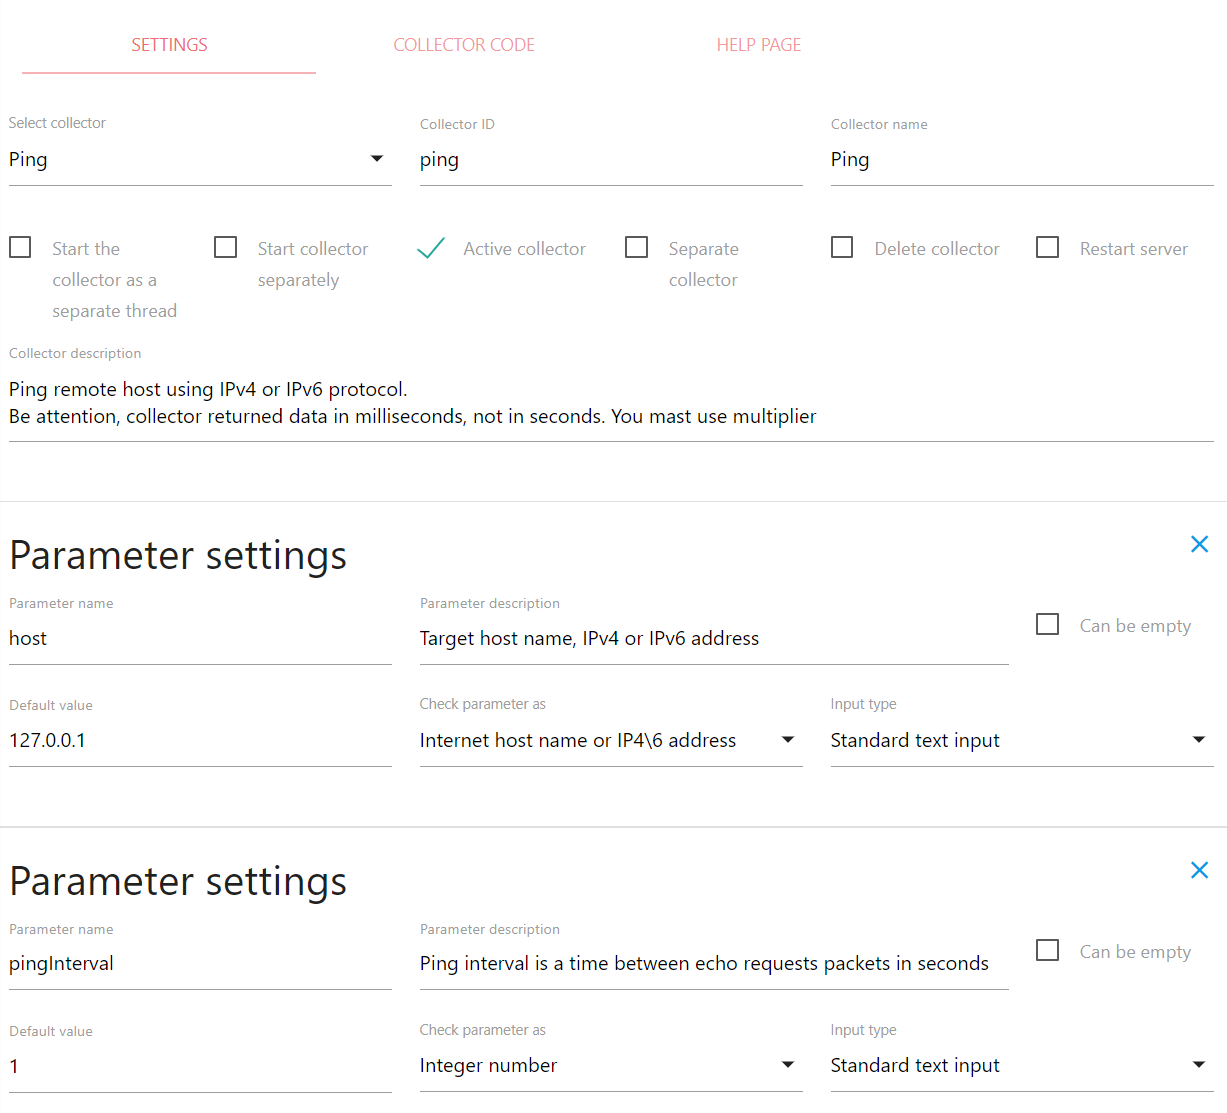
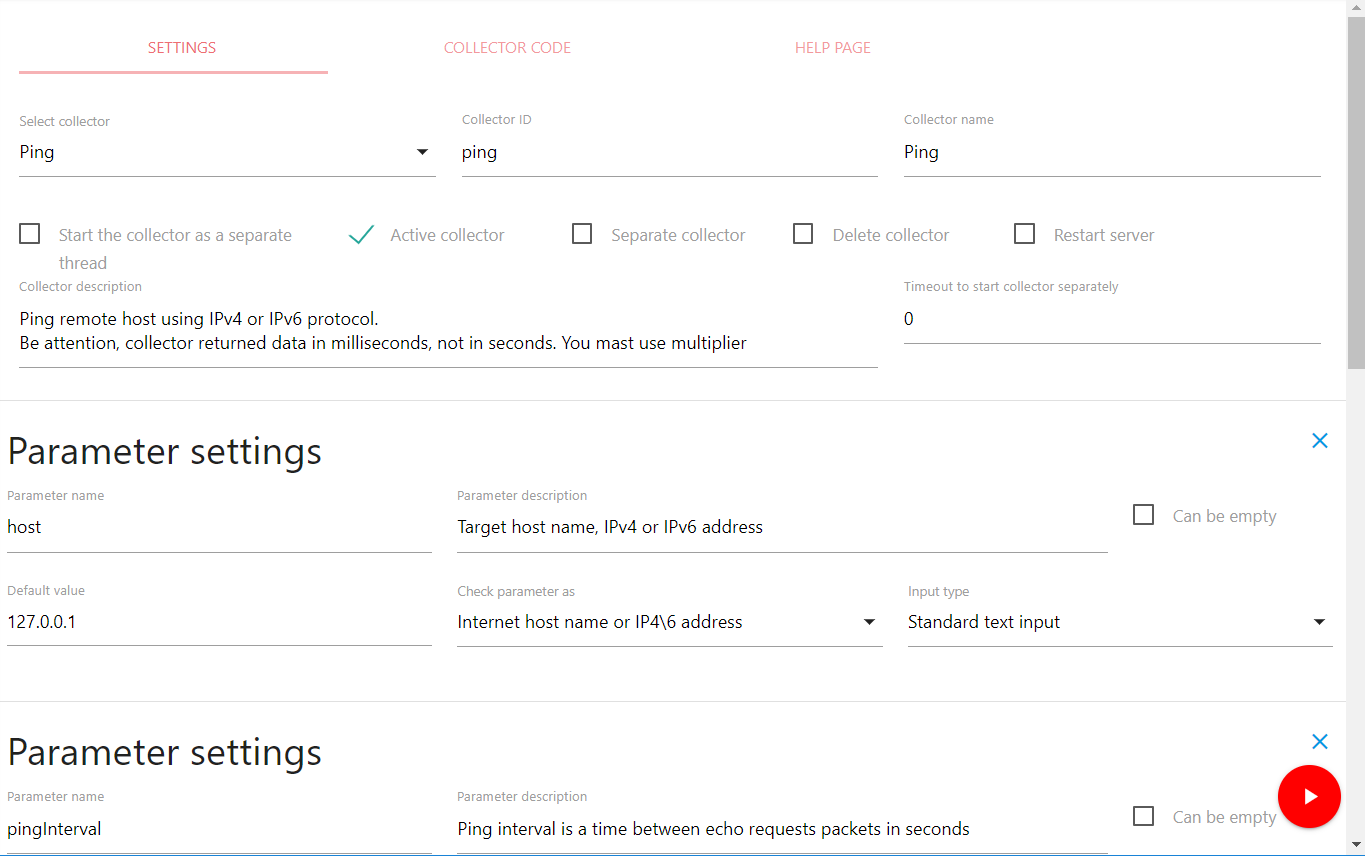
* server bug fixes * collector editor: add timeout for runCollectorSeparately * event editor: bug fixes * interface editor^ new action * frontend interface - bug fixes * update help

diff --git a/server/counterProcessorServer.js b/server/counterProcessorServer.js
@@ -42,9 +42,9 @@ var startMemUsageTime = 0,
     stopServerInProgress = 0,
     childrenThreads,
     activeCollectors = new Set(),
-    runCollectorSeparately = new Set(),
-    /** What OCIDs is being processed now: Map[OCID: isActiveCollector (true|false)]
-     * @type {Map<Number, Boolean>}
+    runCollectorSeparately = new Map(),
+    /** What OCIDs is being processed now: Map[OCID: { isActiveCollector (true|false), timestamp: <startProcessingTime>}]
+     * @type {Map<Number, {Boolean, Number}>}
      */
     processedOCIDs = new Map(),
     updateEventsStatus = new Map(),
@@ -93,7 +93,19 @@ function initBuildInServer(collectorsNamesStr, _serverID, callback) {
             for (var name in collectorsObj) {
                 if (collectorsObj[name].active) activeCollectors.add(name);
                 //else if (collectorsObj[name].separate) separateCollectors.set(name);
-                else if (collectorsObj[name].runCollectorSeparately) runCollectorSeparately.add(name);
+                /*
+                collectorsObj[name].runCollectorSeparately may contain the maximum time (ms) during which data collection
+                can be performed. If the time is exceeded, it is considered that the data collection is completed,
+                but the server has not received a message about this
+                 */
+                else if (collectorsObj[name].runCollectorSeparately) {
+                    var maxTimeToProcessCounter = parseInt(collectorsObj[name].runCollectorSeparately);
+                    if(isNaN(maxTimeToProcessCounter)) {
+                        maxTimeToProcessCounter = parseInt(confServer.maxTimeToProcessCounter)
+                    }
+                    if(isNaN(maxTimeToProcessCounter)) maxTimeToProcessCounter = 30000;
+                    runCollectorSeparately.set(name, maxTimeToProcessCounter);
+                }
             }
 
             runChildren(function (err) {
@@ -204,7 +216,10 @@ function runChildren(callback) {
 // message = {err, result, parameters, collectorName}
 function processCounterResult (message) {
     var OCID = Number(message.parameters.$id);
-    if(!processedOCIDs.has(OCID)) processedOCIDs.set(OCID, true); // active collector
+    if(!processedOCIDs.has(OCID)) processedOCIDs.set(OCID, {
+        isActive: true,
+        timestamp: Date.now(),
+    }); // active collector
     childrenThreads.send(message);
 }
 
@@ -457,20 +472,22 @@ function processChildMessage(message) {
     Message without counter result:
     {
         parentOCID: param.parentOCID,
-        completeExecutionOCID: param.OCID,
-        updateEventState: param.updateEventState, // can be undefined
+        OCID: param.OCID,
+        updateEventState: param.updateEventState,
     }
      */
     if(message.updateEventState !== undefined) {
         let updateEventKey = message.parentOCID + '-' + message.OCID;
         updateEventsStatus.set(updateEventKey, message.updateEventState);
             //if(updateEventKey === '155273-155407' || updateEventKey === '155273-155287') log.warn('!!updateEvent: ', updateEventKey, ': ', message.updateEventState)
+        return;
     }
 
     if(message.OCID) {
         // delete processedOCIDs when finished getting data from not active collector
-        // (processedOCIDs.set(OCID, isActive);  =>   processedOCIDs.get(OCID) === false)
-        if(processedOCIDs.get(Number(message.OCID)) === false) processedOCIDs.delete(Number(message.OCID));
+        if(processedOCIDs.has(message.OCID) && processedOCIDs.get(message.OCID).isActive === false) {
+            processedOCIDs.delete(Number(message.OCID));
+        }
         ++processedCounters;
     }
 
@@ -537,22 +554,27 @@ function getCountersValues(counters, parentVariables, forceToGetValueAgain, cfg)
         var OCID = counter.OCID;
         if(processedOCIDs.has(OCID)) {
             // if active collector
-            if (processedOCIDs.get(OCID)) {
+            var processedOCID = processedOCIDs.get(OCID);
+            if (processedOCID.isActive) {
                 if (forceToGetValueAgain) {
                     counter.removeCounter = true;
                     activeCounters.push(getCounterAndObjectName(OCID));
                 } else {
                     log.info('Counter ', getCounterAndObjectName(OCID),
-                        ' is processed to receive data by active collector "', counter.collector,
-                        '". Skipping add same counter');
+                        ' is processed to receive data by active collector ', counter.collector,
+                        ' from ', (new Date(processedOCID.timestamp)).toLocaleString(),'. Skipping add same counter');
                     return;
                 }
             }
             if (runCollectorSeparately.has(counter.collector)) {
-                log.info('Skipping getting a value for the ', getCounterAndObjectName(OCID),
-                    ' another counter is running and the "runCollectorSeparately" option is set for the collector ',
-                    counter.collector);
-                return;
+                var processingTime = Date.now() - processedOCID.timestamp;
+                if(processingTime < runCollectorSeparately.get(counter.collector)) {
+                    log.info('Skipping getting a value for the ', getCounterAndObjectName(OCID),
+                        '. Another counter is processed ', processingTime, 'ms and max processing time set to ',
+                        runCollectorSeparately.get(counter.collector),
+                        'ms by the "runCollectorSeparately" option for the collector ', counter.collector);
+                    return;
+                }
             }
         }
 
@@ -577,7 +599,10 @@ function getCounterValue(counter, parentVariables) {
     var OCID = counter.OCID;
     var isActive = activeCollectors.has(counter.collector);
 
-    processedOCIDs.set(OCID, isActive);
+    processedOCIDs.set(OCID, {
+        isActive: isActive,
+        timestamp: Date.now(),
+    });
 
     var updateEventKey = counter.parentOCID + '-' + OCID;
     counter.parentVariables = parentVariables;

diff --git a/server/child/getCountersValue.js b/server/child/getCountersValue.js
@@ -164,7 +164,6 @@ function sendCompleteExecutionResult(param) {
     childThread.send({
         parentOCID: param.parentOCID,
         OCID: param.OCID,
-        updateEventState: param.updateEventState,
     });
 }
 
@@ -277,17 +276,15 @@ function getVariablesAndCheckUpdateEvents(message) {
                 variablesDebugInfo.UPDATE_EVENT_STATE && variablesDebugInfo.UPDATE_EVENT_STATE.important);
         }
 
-        param.updateEventState = variables.UPDATE_EVENT_STATE;
         //profiling.stop('1. get variables values', message);
         //profiling.start('2. prepare to get counter value', message);
 
         // send UPDATE_EVENT_STATE anyway if previous updateEventState is not equal to new updateEventState,
         // because after the child may have nothing to send to the server
-        /*
+        //was if (param.parentOCID && param.updateEventExpression && variables.UPDATE_EVENT_STATE !== undefined) {
         if (param.parentOCID && param.updateEventExpression &&
             updateEventState !== variables.UPDATE_EVENT_STATE &&
             variables.UPDATE_EVENT_STATE !== undefined) {
-        //if (param.parentOCID && param.updateEventExpression && variables.UPDATE_EVENT_STATE !== undefined) {
             childThread.send({
                 parentOCID: param.parentOCID,
                 OCID: param.OCID,
@@ -295,7 +292,7 @@ function getVariablesAndCheckUpdateEvents(message) {
             });
             //if(counterID === 211 || counterID === 257) log.warn(param.counterName, ' send: updateEventState: ', updateEventState ,'=>', variables.UPDATE_EVENT_STATE, ': ', noNeedToCalculateCounter, ': ', param.parentOCID, '-', param.OCID, ': ', param.updateEventExpression);
         }
-        */
+
         //if(counterID === 211 || counterID === 257) log.warn(param.counterName, ': updateEventState: ', updateEventState ,'=>', variables.UPDATE_EVENT_STATE, ': ', noNeedToCalculateCounter, ': ', param.parentOCID, '-', param.OCID, ': ', param.updateEventExpression);
         if (err) {
             log.options(err.message, {
@@ -411,7 +408,6 @@ function processCollectorResult(err, result, param, collectorName) {
                 objectName: param.$variables.OBJECT_NAME,
                 counterID: param.$counterID,
                 objectID: param.$objectID,
-                updateEventState: param.updateEventState,
             }
         } catch (err) {
             log.error('Can\'t init param: ' + err.message + '; ' + JSON.stringify(param))
@@ -545,7 +541,6 @@ if(param.OCID === 155273) log.warn(param.counterName, ' recalculate: updateEvent
         variables: param.collectorParameters.$variables,
         dependedCounters: dependedCounters,
         value: preparedResult.value,
-        updateEventState: param.updateEventState,
     };
 
     //profiling.stop('3. get depended counters', param);

diff --git a/actions/collector_editor/server.js b/actions/collector_editor/server.js
@@ -9,6 +9,8 @@ var log = require('../../lib/log')(module);
 var collectors = require('../../lib/collectors');
 var help = require('../../lib/help');
 var server = require('../../server/counterProcessor');
+const Conf = require("../../lib/conf");
+const confServer = new Conf('config/server.json');
 
 module.exports = function(args, callback) {
     log.debug('Starting action server "', args.actionName, '" with parameters', args);
@@ -36,8 +38,17 @@ module.exports = function(args, callback) {
     collector.description = args.description;
     collector.active = args.activeCollector;
     collector.separate = args.activeCollector ? '' : args.separateCollector;
-    collector.runCollectorSeparately = args.runCollectorSeparately;
     collector.runCollectorAsThread = args.runCollectorAsThread;
+
+
+    collector.runCollectorSeparately = args.runCollectorSeparately;
+    var maxTimeToProcessCounter = confServer.maxTimeToProcessCounter;
+    if(confServer.maxTimeToProcessCounter !== parseInt(confServer.maxTimeToProcessCounter)) {
+        maxTimeToProcessCounter = 30000;
+    }
+    if(args.runCollectorSeparately && Number(args.runCollectorSeparately) !== parseInt(args.runCollectorSeparately)) {
+        collector.runCollectorAsThread = maxTimeToProcessCounter;
+    }
 
     var parameters = {};
     for(var inputID in args) {

diff --git a/actions/collector_editor/static/client.js b/actions/collector_editor/static/client.js
@@ -241,8 +241,12 @@ var JQueryNamespace = (function ($) {
               if(collector.runCollectorAsThread) $('#runCollectorAsThread').prop("checked", true).prop("disabled", false);
               else $('#runCollectorAsThread').prop("checked", false);
 
-              if(collector.runCollectorSeparately) $('#runCollectorSeparately').prop("checked", true);
-              else $('#runCollectorSeparately').prop("checked", false);
+              if(collector.runCollectorSeparately) {
+                  if(Number(collector.runCollectorSeparately) === parseInt(collector.runCollectorSeparately)) {
+                      $('#runCollectorSeparately').val(parseInt(collector.runCollectorSeparately));
+                  } else $('#runCollectorSeparately').val('on');
+              } else $('#runCollectorSeparately').val(0);
+
 
               parametersElm.empty();
 
@@ -374,4 +378,3 @@ var JQueryNamespace = (function ($) {
   }
 
 })(jQuery); // end of jQuery name space
-

diff --git a/public/javascripts/alepiz.js b/public/javascripts/alepiz.js
@@ -703,7 +703,7 @@ alepizMainNamespace = (function($) {
             if(typeof group.name !== 'string' || !group.name || typeof group.re !== 'string' || !group.re) {
                 return console.error('Error in parameters for grouping objects (name or re):', group);
             }
-            if(objectNames[group.name.toUpperCase()]) return;
+            if(objectNames[group.re.toUpperCase()]) return;
 
             try {
                 newGroupObj.RE = new RegExp(group.re, "gi");
@@ -713,7 +713,7 @@ alepizMainNamespace = (function($) {
             }
             for(var key in group) newGroupObj[key] = group[key];
             objectGroups.push(newGroupObj);
-            objectNames[group.name.toUpperCase()] = true;
+            objectNames[group.re.toUpperCase()] = true;
         }
     }
 

diff --git a/actions/events_editor/server.js b/actions/events_editor/server.js
@@ -200,7 +200,7 @@ function checkParametersAndRights(args, callback) {
 
                 if(args.keepHistory && isInt(args.keepHistory) === null) return er('Incorrect keep history value ' + args.keepHistory);
 
-                if(args['event-duration'] && isInt(args['event-duration']) === null) {
+                if (args['event-duration'] && isInt(args['event-duration']) === null && !args['event-duration'].match(/^%:.*:%$/)) {
                     return er('Incorrect event duration ' + args['event-duration']);
                 }
                 countersParameters.eventDuration = args['event-duration'] ? Number(args['event-duration']) : '';
@@ -278,5 +278,3 @@ function getImportance(callback) {
         callback(null, cfg.importance);
     });
 }
-
-

diff --git a/server/child/getVars.js b/server/child/getVars.js
@@ -175,6 +175,7 @@ function getUpdateEventState(variables, param, callback) {
             processUpdateEventExpressionResult(updateEventResult, param.updateEventMode, param.prevUpdateEventState);
 
         variables.UPDATE_EVENT_STATE = updateEventResult;
+        variables.UPDATE_EVENT_TIMESTAMP = Date.now();
 
         /*
         log.info('!!!!', param.objectName + ' (' + param.counterName + ' #' + param.counterID +

diff --git a/public/stylesheets/actions.css b/public/stylesheets/actions.css
@@ -12,7 +12,7 @@
 
 /* used for remove strong definition in materialize.css (font-weight: 500) for enable bold text in quill editor*/
 strong {
-    font-weight: bold !important;;
+    font-weight: bold !important;
 }
 
 .margin-0 {
